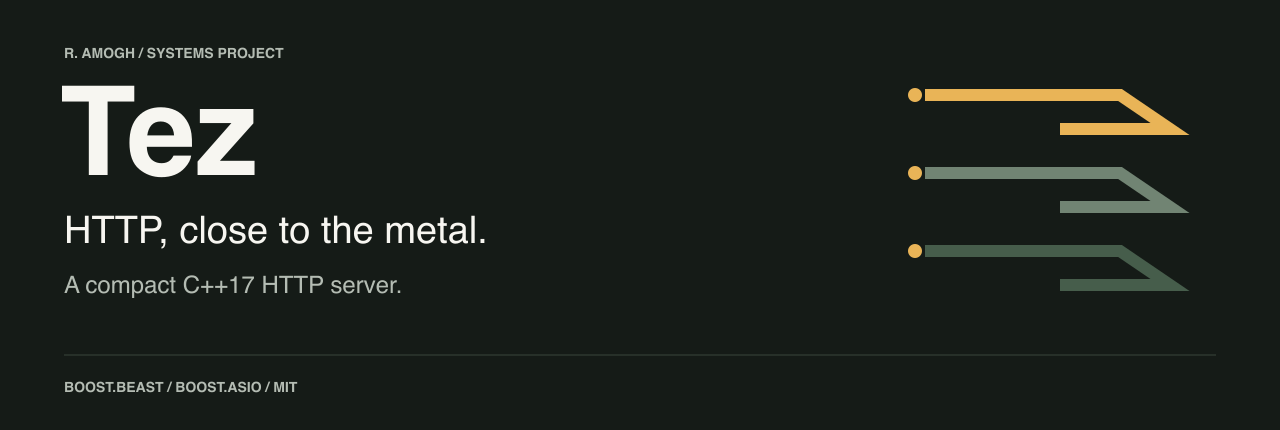
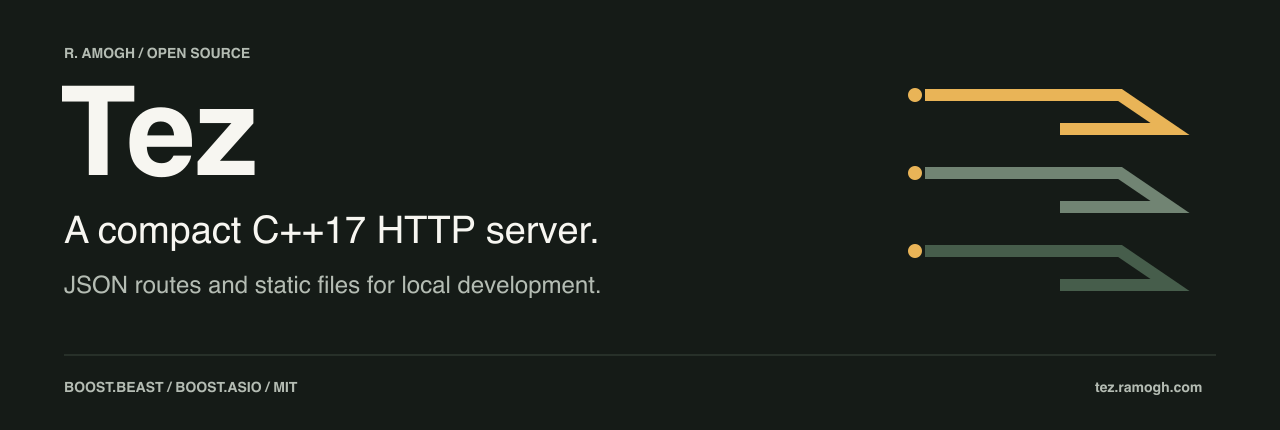
docs(site): link project website and clarify public copy

diff --git a/docs/assets/generate_artwork.py b/docs/assets/generate_artwork.py
@@ -1,7 +1,12 @@
 #!/usr/bin/env python3
 """Regenerate the repository's SVG artwork. Run from any directory."""
+import argparse
 from html import escape
 from pathlib import Path
+
+parser = argparse.ArgumentParser(description=__doc__)
+parser.add_argument('--assets-only', action='store_true', help='Regenerate banner and social artwork without rewriting architecture diagrams.')
+args = parser.parse_args()
 
 ROOT = Path(__file__).resolve().parents[2]
 INK = "#1b211e"
@@ -45,6 +50,8 @@ def arrow(parts, x1, y1, x2, y2, bend=None):
 
 
 def save(parts, filename, note, height=520):
+    if args.assets_only:
+        return
     parts += [text(40, height-26, note, 15, MUTED), '</g></svg>']
     (ROOT / 'diagrams' / filename).write_text('\n'.join(parts)+'\n')
 
@@ -137,16 +144,17 @@ def hero(height, social=False):
     title_y = 225 if social else 175
     parts = [f'<svg xmlns="http://www.w3.org/2000/svg" width="1280" height="{height}" '
              f'viewBox="0 0 1280 {height}" role="img" aria-labelledby="title desc">',
-             '<title id="title">Tez — HTTP, close to the metal.</title>',
-             '<desc id="desc">A compact C++17 HTTP server built on Boost.Beast and Boost.Asio.</desc>',
+             '<title id="title">Tez — a compact C++17 HTTP server.</title>',
+             '<desc id="desc">JSON routes and static files for local development.</desc>',
              f'<rect width="1280" height="{height}" fill="#151b17"/>',
              '<g font-family="Helvetica,Arial,sans-serif">',
-             text(64, 58, "R. AMOGH / SYSTEMS PROJECT", 14, '#b4bcb3', 700),
+             text(64, 58, "R. AMOGH / OPEN SOURCE", 14, '#b4bcb3', 700),
              text(60, title_y, "Tez", 124, '#f7f6f1', 700),
-             text(64, title_y+68, "HTTP, close to the metal.", 38, '#f7f6f1', 400),
-             text(64, title_y+118, "A compact C++17 HTTP server.", 24, '#b4bcb3'),
+             text(64, title_y+68, "A compact C++17 HTTP server.", 38, '#f7f6f1', 400),
+             text(64, title_y+118, "JSON routes and static files for local development.", 24, '#b4bcb3'),
              f'<path d="M64 {height-75} H1216" stroke="#3a453c"/>',
-             text(64, height-38, "BOOST.BEAST  /  BOOST.ASIO  /  MIT", 14, '#b4bcb3', 700)]
+             text(64, height-38, "BOOST.BEAST  /  BOOST.ASIO  /  MIT", 14, '#b4bcb3', 700),
+             text(1095, height-38, "tez.ramogh.com", 14, '#b4bcb3', 700)]
     cy = height//2-35
     for i in range(3):
         y=cy-85+i*78

diff --git a/README.md b/README.md
@@ -1,5 +1,5 @@
 <p align="center">
-  <img src="docs/assets/tez-banner.svg" alt="Tez — HTTP, close to the metal. A compact C++17 HTTP server." width="100%">
+  <img src="docs/assets/tez-banner.svg" alt="Tez — a compact C++17 HTTP server for JSON routes and static files." width="100%">
 </p>
 
 <p align="center">
@@ -9,6 +9,7 @@
 </p>
 
 <p align="center">
+  <a href="https://tez.ramogh.com">Website</a> ·
   <a href="#build-and-run">Get started</a> ·
   <a href="examples/fixtures/README.md">Examples</a> ·
   <a href="docs/configuration.md">Configuration</a> ·
@@ -17,9 +18,9 @@
   <a href="docs/engineering.md">Engineering notes</a>
 </p>
 
-Tez is a compact C++17 HTTP server for serving local files, keeping fixed HTTP responses in Git, and following a request from socket to response. It combines Boost.Beast's HTTP parser with Boost.Asio's asynchronous networking, JSON routes, and static file serving.
+Tez is a compact C++17 HTTP server for local development. Define fixed responses in JSON, serve files under `/static/`, and inspect request bodies at `/echo`. It uses Boost.Beast for HTTP parsing and Boost.Asio for asynchronous networking.
 
-The focus is explicit behavior: bounded requests, ordered responses, controlled file access, and tests that exercise the actual wire protocol. This checkout is **1.1.0-dev**. It is under active development; published images may contain older code. There is no current performance ranking or production-readiness claim.
+This checkout is **1.1.0-dev**. It is under active development; published images may contain older code. There is no current performance ranking or production-readiness claim.
 
 ## What is here
 
@@ -68,7 +69,7 @@ ctest --test-dir build --output-on-failure
 
 For a server-only build, pass `-DBUILD_TESTING=OFF`. See [CONTRIBUTING.md](CONTRIBUTING.md) for sanitizers and development checks.
 
-### Run, request, edit, repeat
+### Try a fixed response
 
 Start with the [fixed-response example](examples/fixtures/README.md). Validate its paths and routes, then start the server:
 

diff --git a/docs/dockerhub.md b/docs/dockerhub.md
@@ -1,10 +1,10 @@
-![Tez — HTTP, close to the metal.](https://raw.githubusercontent.com/Amogh-2404/Tez/main/docs/assets/tez-banner.png)
+![Tez — a compact C++17 HTTP server for JSON routes and static files.](https://raw.githubusercontent.com/Amogh-2404/Tez/main/docs/assets/tez-banner.png)
 
 # Tez
 
-A compact C++17 HTTP server built on Boost.Beast and Boost.Asio. JSON routes, static files, explicit resource limits, and a codebase designed to be read.
+A compact C++17 HTTP server for local development, built on Boost.Beast and Boost.Asio. Serve fixed responses from JSON configuration, serve static files, and inspect request bodies at `/echo`.
 
-[Source](https://github.com/Amogh-2404/Tez) · [Documentation](https://github.com/Amogh-2404/Tez/tree/main/docs) · [Issues](https://github.com/Amogh-2404/Tez/issues) · [License](https://github.com/Amogh-2404/Tez/blob/main/LICENSE)
+[Website](https://tez.ramogh.com) · [Source](https://github.com/Amogh-2404/Tez) · [Documentation](https://github.com/Amogh-2404/Tez/tree/main/docs) · [Issues](https://github.com/Amogh-2404/Tez/issues) · [License](https://github.com/Amogh-2404/Tez/blob/main/LICENSE)
 
 ## Version note
 
@@ -42,7 +42,7 @@ curl --fail http://127.0.0.1:8080/health
 
 Stop with `Ctrl-C` or `docker stop tez`. The health endpoint returns `{"status":"ok"}`.
 
-## Bring your routes and files
+## Configure routes and static files
 
 ```sh
 docker run --rm --name tez \
@@ -67,7 +67,7 @@ A route configuration looks like this:
 
 A file at `static/style.css` is served at `/static/style.css`. Configured routes are loaded at startup; restart after editing them. Mounted files must be readable by UID `10001`. Symlinks below the static root are rejected.
 
-## Image contract
+## Container defaults
 
 | Setting | Value |
 | --- | --- |
